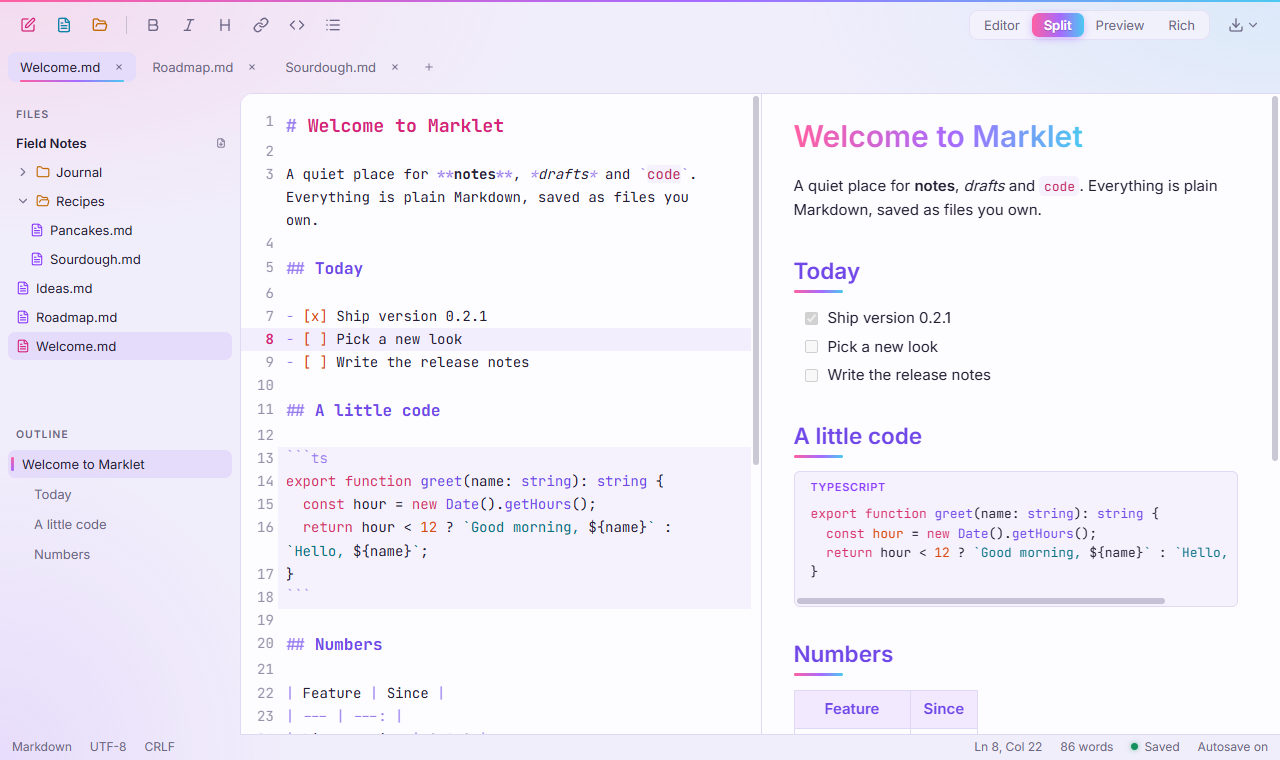
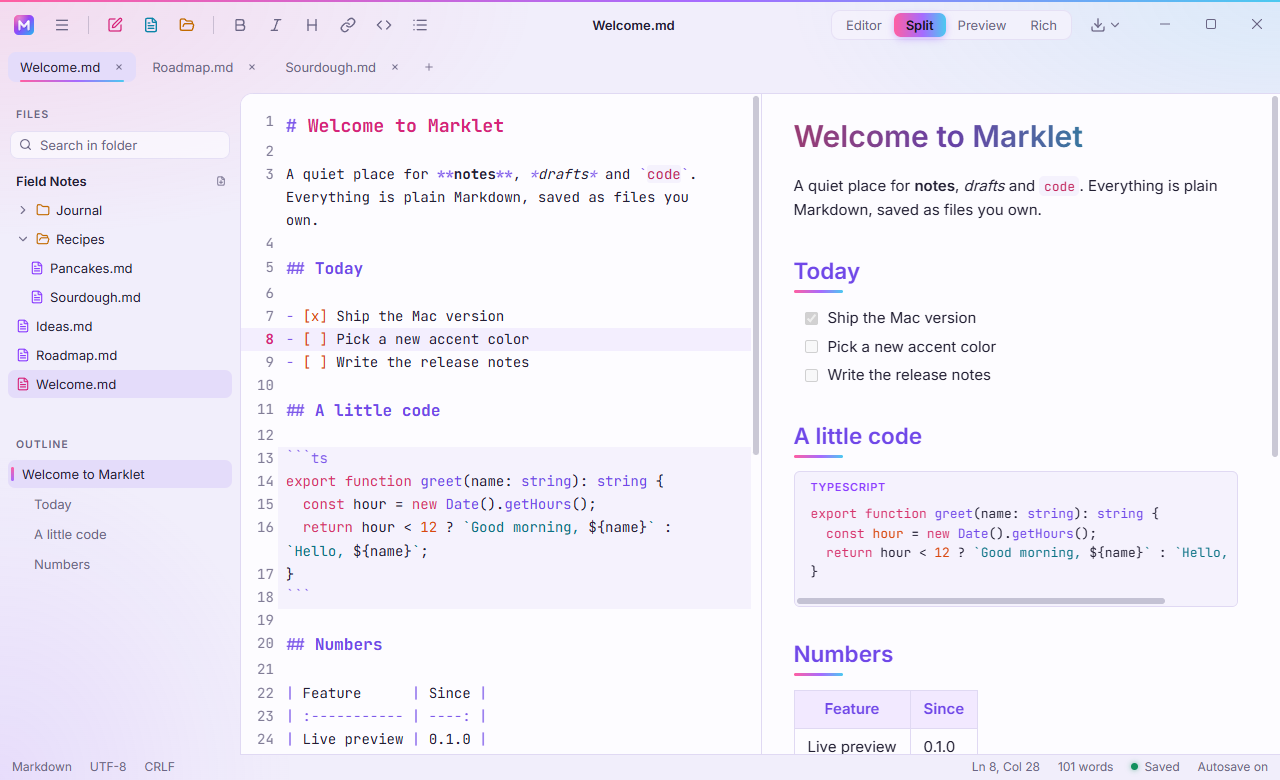
Changelog, privacy note, fresh screenshots, current Actions versions
CHANGELOG.md covers every version. The README gains a Privacy section and screenshots that show the title bar, icon and menus. The workflows use the current major versions of the GitHub actions, and running the release workflow by hand now rehearses the publish job too, without publishing.

diff --git a/CHANGELOG.md b/CHANGELOG.md
@@ -1,0 +1,56 @@
+# Changelog
+
+What changed in each version of Marklet. Installed copies from 0.2.0 on update themselves.
+
+## Unreleased
+
+- **Accessibility:** the editor, tabs, outline, file tree and task boxes are named for screen readers; tabs work from the keyboard (Left / Right, Enter, Delete); text on the glow and the document title in the light theme are easier to read; animations stop when the system asks for reduced motion; current items are outlined in Windows high-contrast themes.
+- **Safety net:** a smoke test drives the real app through its main features before a release can be published.
+- Fixed: if the diagram library failed to start, the app retried in an endless loop.
+
+## 0.5.0 (2026-11-12)
+
+- **Marklet for Mac:** runs on macOS 13 or later on Apple Silicon, signed and notarized by Apple. It uses the system title bar and menu bar, and Cmd in place of Ctrl.
+- Macs update themselves, like Windows.
+
+## 0.4.3 (2026-11-11)
+
+- The app menu, the Export dropdown and the file tree's right-click menu are drawn in the Aurora look, following the theme and accent.
+- Open Recent shows each file's name with its folder.
+
+## 0.4.2 (2026-11-11)
+
+- **Custom title bar on Windows:** the toolbar is the top of the window, with the icon, a menu button (F10), the file name and the window buttons.
+
+## 0.4.1 (2026-11-11)
+
+- A new app icon: a white M on the Aurora gradient.
+
+## 0.4.0 (2026-11-10)
+
+- **Crash recovery:** unsaved work, including notes never saved, is offered back after the app or PC goes down.
+- **Settings window** (Ctrl+,): theme, accent, editor and reading fonts, text size, line width, autosave and spell check.
+- **Rich view:** tables are edited in place, cell by cell; tables, diagrams and formulas inside lists and quotes are drawn.
+- **Search in folder** (Ctrl+Shift+F), **Open Recent**, **drag and drop** (notes, folders, images) and **zoom** (Ctrl+= / Ctrl+- / Ctrl+0).
+- Releases are built, tested, signed and published by GitHub from a version tag.
+
+## 0.3.0 (2026-11-10)
+
+- **A new look, Aurora:** indigo-tinted light and dark themes, a three-color glow on the active view, tab and document title, and more color for headings, links, code and icons.
+- Accent presets change the glow as well; the default is Aurora.
+
+## 0.2.1 (2026-11-10)
+
+- Rich view draws tables, math and diagrams in place; Ctrl+click follows a link.
+- Fixed: a `$` next to inline code was taken for math.
+
+## 0.2.0 (2026-11-10)
+
+- **Rich view** (Ctrl+4): edit with the Markdown symbols hidden.
+- **Math** (`$…$`, `$$…$$`) and **Mermaid diagrams** in the preview and in exports.
+- **Image paste:** a pasted screenshot is saved in an `assets` folder next to the note and linked.
+- **Spell check**, **find and replace** (Ctrl+F) and **automatic updates**.
+
+## 0.1.0 (2026-10-31)
+
+- The first version: live preview with scroll sync, a folder workspace with a file tree, tabs with session restore, an outline, syntax highlighting, formatting buttons, autosave, HTML and PDF export, and light and dark themes.

diff --git a/README.md b/README.md
@@ -36,6 +36,8 @@ A desktop Markdown editor for Windows and macOS (Apple Silicon), built with Taur
 | --- | --- |
 | ![Split view in the light theme](docs/screenshots/split-light.png) | ![Rich view in the dark theme: Markdown symbols hidden, task boxes and code drawn in place](docs/screenshots/rich-dark.png) |
 
+![The app menu open on View, drawn in the app's own look](docs/screenshots/menu-dark.png)
+
 ## Prerequisites
 
 - Node.js 20+ and npm
@@ -174,6 +176,17 @@ Run on macOS 13+ (Apple Silicon) with the first signed build (November 2026); re
 - [x] 13. Aurora redesign: indigo surfaces, a three-color glow, pop colors for Markdown structure and icons, rounded tabs and an icon toolbar
 - [x] 12. Find and replace: a search bar above the editor, from Ctrl/Cmd+F or the Edit menu
 - [x] 11. Rich view: a fourth view mode that hides Markdown symbols away from the cursor and draws images, bullets, task boxes, tables, math and diagrams in place, with Ctrl/Cmd+click to follow links; raw HTML stays as source there
+
+## Privacy
+
+Marklet works on files on your computer and has no account, analytics or telemetry. It contacts the internet in two cases only:
+
+- **Update checks.** At startup, and when you choose Check for Updates, it asks GitHub (`github.com/jgruber96/marklet`) for the latest release, and downloads the update from there if you choose to install it. GitHub sees your IP address, as it would for any download. Nothing about you or your notes is sent.
+- **Content your notes point to.** A note that shows an image from a web address loads it from that address, and a link you click opens in your browser.
+
+Settings, the list of recent files and recovery copies of unsaved work are stored on your computer only, in the app's data folder.
+
+See [CHANGELOG.md](CHANGELOG.md) for what changed in each version.
 
 ## License
 
